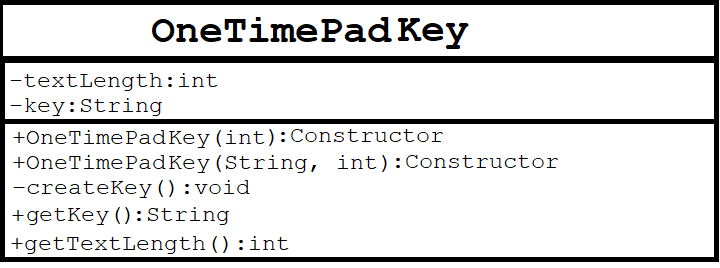
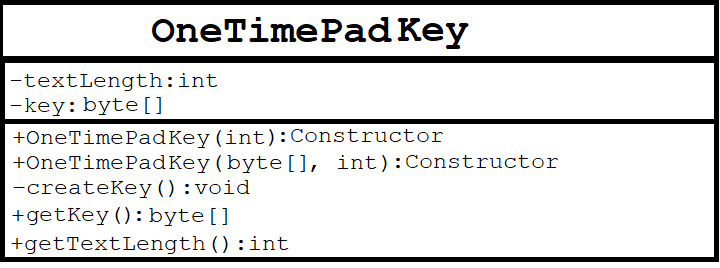
Changed a few aspects of the way the OneTimePadKey Java class will work.

Changed region(s): [[0.3056, 0.5672, 0.4278, 0.6567], [0.1833, 0.7761, 0.3361, 0.8358], [0.0917, 0.3582, 0.2444, 0.4179]]

diff --git a/Encryptor Decryptor File Encryption/src/Encryptor Decryptor File Ecryption/CipherPackage/OneTimePadCipher.java b/Encryptor Decryptor File Encryption/src/Encryptor Decryptor File Ecryption/CipherPackage/OneTimePadCipher.java
@@ -1,0 +1,52 @@
+/**
+ * 
+ */
+package CipherPackage;
+
+import CipherKeys.OneTimePadKey;
+
+/**
+ * @author Amol Soneji
+ *
+ */
+public class OneTimePadCipher 
+{
+	
+	private String cipherTextBuilder;
+	private String plainTextBuilder;
+	private String cipherText;
+	private String plainText;
+	private boolean mode;
+	private OneTimePadKey key;
+
+	/**
+	 * 
+	 */
+	public OneTimePadCipher(String text, OneTimePadKey key, boolean mode)
+	{
+		this.mode = mode;
+		if(mode) // Encrypt
+			plainText = text;
+		else // Decrypt
+			cipherText = text;
+		this.key = key;
+	}
+	
+	public void clear()
+	{
+		cipherText = "";
+		plainText = "";
+		key = null;
+	}
+	
+	public String compute(boolean inputType)
+	{
+		if(mode)
+		{
+			if(inputType) // Is not a string of bits.  
+			{
+				cipherText = 
+			}
+		}
+	}
+}

diff --git a/Encryptor Decryptor File Encryption/src/Encryptor Decryptor File Ecryption/CipherKeys/OneTimePadKey.java b/Encryptor Decryptor File Encryption/src/Encryptor Decryptor File Ecryption/CipherKeys/OneTimePadKey.java
@@ -11,8 +11,8 @@ import java.security.SecureRandom;
  */
 public class OneTimePadKey 
 {
-	private int textLength;
-	private String key;
+	private int textLength; // Text length in terms of number of number of bytes.  
+	private byte[] key;
 	
 	public OneTimePadKey(int textLength)
 	{
@@ -29,13 +29,12 @@ public class OneTimePadKey
 	private void createKey()
 	{
 		SecureRandom random = new SecureRandom();
-		char[] builder = new char[textLength];
+		String 
+		String keyBuilder = "";
 		for(int index = 0; index < textLength; index++) 
 		{
-			char[] holding = Character.toChars(random.nextInt());
-			builder[index] = holding[0];
+			keyBuilder = keyBuilder + Character.toChars(random.);
 		}
-		key = new String(builder);
 	}
 	
 	public String getKey()
